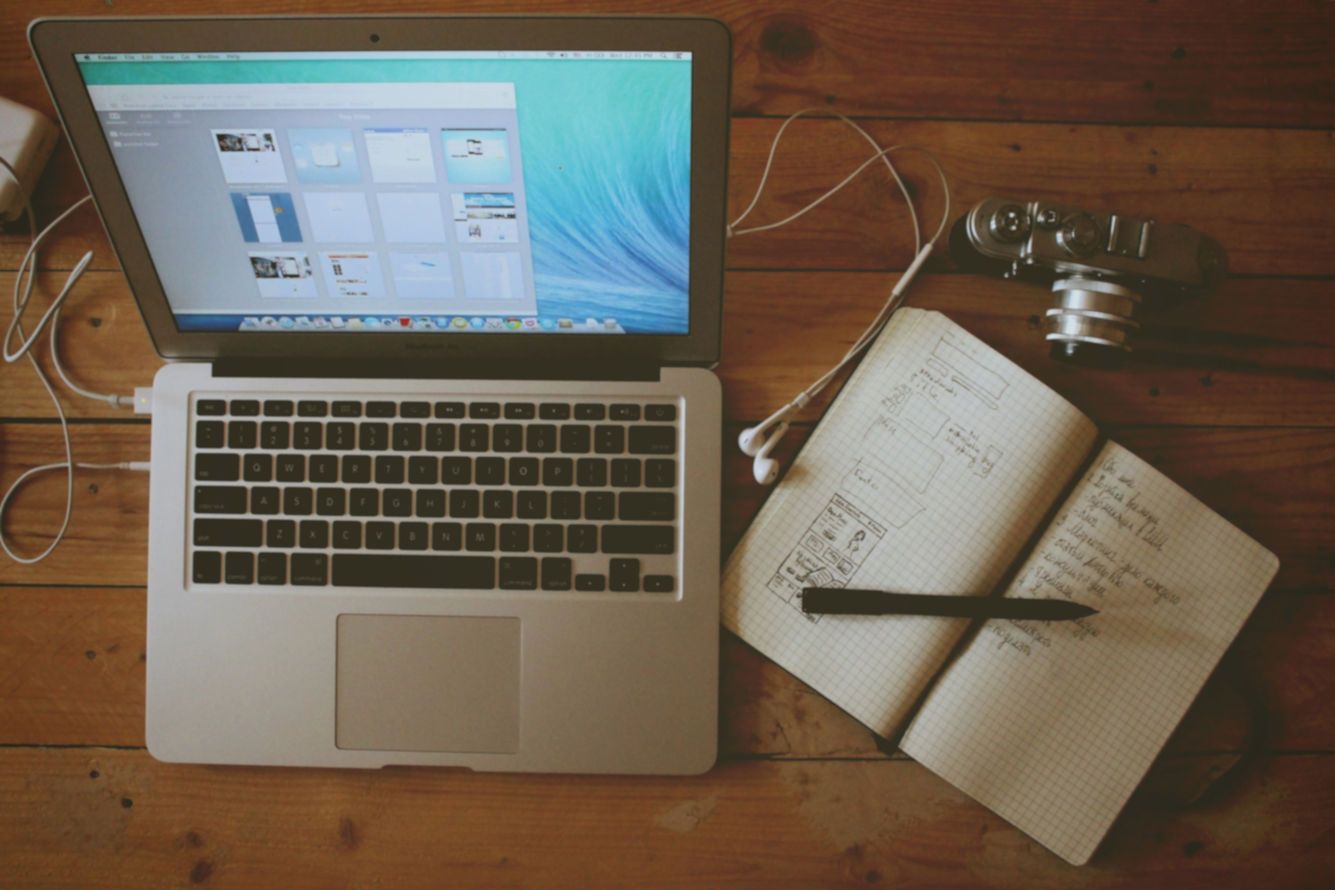
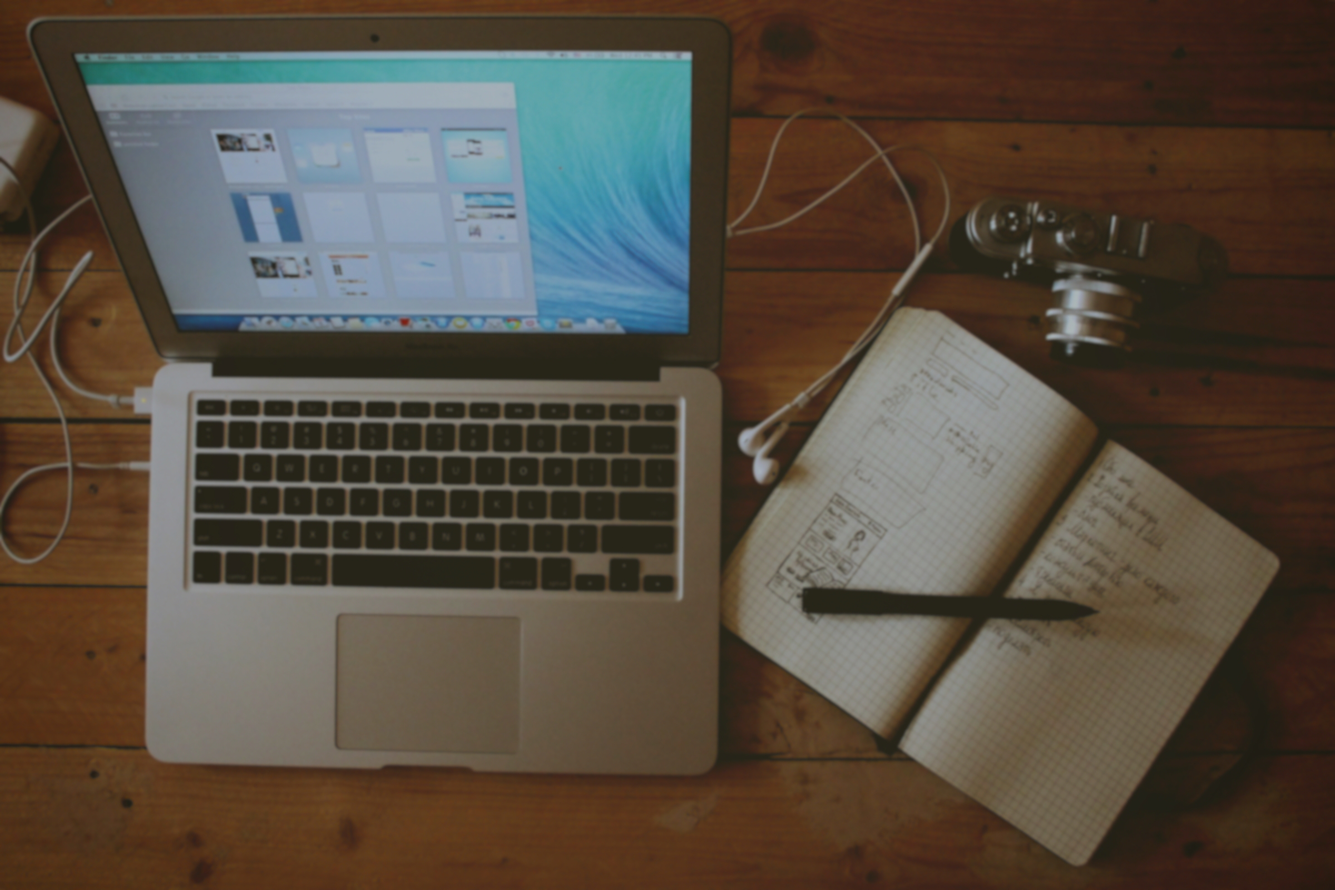
add tooltip for hackathon, darken project.jpg

diff --git a/index.html b/index.html
@@ -183,7 +183,7 @@
                         <div class="large-push-6 large-6 small-11 small-centered large-uncentered columns">
                             <div class="row">
                                 <div class="small-12 column">
-                                    <h2 class="section-subtitle">besides skills you learned</h2>
+                                    <h2 class="section-subtitle">contribute your power</h2>
                                 </div>
                             </div>
                             <div class="row">
@@ -191,7 +191,8 @@
                                     <p><a href="http://g0v.tw/">g0v 零時政府</a>是一個推動資訊透明化、以寫程式改造社會的社群。</p>
                                     <p>
                                     本學期 CCSP 課程與 g0v 合作，學期初將由 g0v 共同發起人吳泰輝（Kirby Wu）介紹 g0v 的專案給大家作為期末計畫的參考題目，並且在學期中由 g0v 的社群講師分享 Data parsing 以及資料視覺化的概念與實務經驗。</p>
-                                    <p>學期中，我們會請同學們實際參與 g0v 黑客松，在短短一天內密集與一群有志之士合作，開發出幫助公民參與的資訊平台與工具，感受改變社會的能量。</p>
+                                    <p>學期中，我們會請同學們實際參與 g0v <span data-tooltip class="has-tip tip-bottom radius" title="Hack 原指解決問題、創意程式設計等意思，而非蓄意破壞、竊取機密文件。而黑客松（Hackathon）是由寫程式『Hack』和馬拉松『Marathon』兩部分組成，指的是人們聚在一起在輕鬆的環境享受美食，長時間腦力激盪各種解決問題的創意作品。Hackathon是國外十分流行的創意發想的方式，國外像是知名企業和大學如：Facebook、Yahoo!、Evernote、紐約大學、賓州大學等皆有舉辦相關活動。">黑客松</span>，在短短一天內密集與一群有志之士合作，開發出幫助公民參與的資訊平台與工具，感受改變社會的能量。</p>
+
                                 </div>
                             </div>
                         </div>

diff --git a/scss/_main.scss b/scss/_main.scss
@@ -231,8 +231,14 @@ nav{
 		background-image: url("../img/fire.jpg");
 	}
 	.section-subtitle{
-		font-size: rem-calc(39);
+		font-size: rem-calc(44);
 		text-align: justify;
+	}
+	span[data-tooltip]{
+		color:$green;
+		&:hover{
+			color:darken($green,14%);
+		}
 	}
 }
 
@@ -246,6 +252,7 @@ nav{
 	}
 	p{
 		color:lighten($grey, 80%);
+		font-size: rem-calc(18);
 	}
 }
 
